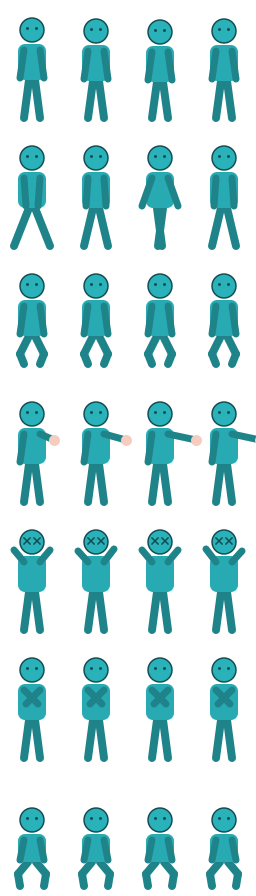
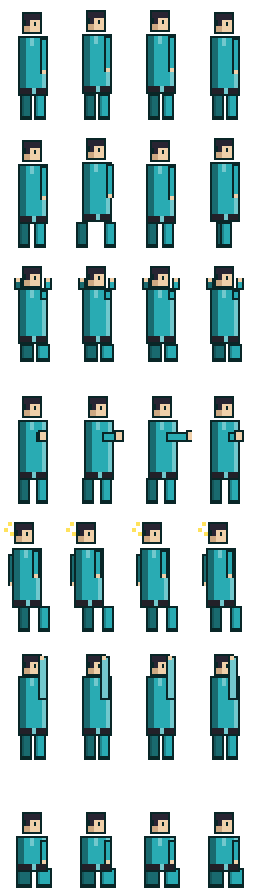
Task 129: スプライトをレトロ・ドット絵調に全面刷新（全 20 体）
キャラの見た目が単色のっぺりブロブで味気なかったため、ヘッドレス AWT の
新ジェネレータ（ハードエッジ・2px グリッド・太い輪郭・フラット陰影）で
レトロ・ドット絵調の格闘家（顔/髪/目/道着/帯/関節のある四肢）に刷新。
各状態で別ポーズ＋4 コマでモーション差（idle 呼吸 / walk 脚腕交互 /
attack 溜め→伸ばし→戻し / hitstun のけぞり＋火花 / guard 前腕立て /
crouch 低姿勢）を付け、全 20 体を各 JSON color で再生成。

- レイアウト不変（256×896・64×128・4 列 × 7 行＝idle/walk/jump/attack/
  hitstun/guard/crouch）＝sprite.stateRows / frameWidth / frameHeight も
  不変。JSON・コードは一切変更しない純アセット差し替え（後方互換・
  リプレイ/スクショレシピ不変・右向き 1 枚を engine の flip でミラー）。
- README ギャラリーの対戦画面を新スプライトの撮影に差し替え＋進捗表に
  Task 129 を追加。CLAUDE.md にフェーズと新ジェネレータの設計知見を反映。

https://claude.ai/code/session_013qTraoUF6gkNsUuRDs4kRT

diff --git a/CLAUDE.md b/CLAUDE.md
@@ -11,7 +11,7 @@
 
 **現在のフェーズ**：設計書タスク 1〜34 を完了（MVP ＋ コマンド技/必殺技/簡易 AI ＋ 2 体目検証 ＋ ドキュメント整備 ＋ 複数技 JSON 化 ＋ しゃがみ ＋ 複数ラウンド制 ＋ ガード ＋ しゃがみ攻撃 ＋ しゃがみ移動 ＋ しゃがみガード ＋ 下段判定 ＋ 空中攻撃 ＋ ガード高さ属性 ＋ スプライト描画）。さらに追加機能として **Task 35 投げ技（ガード不能の近接掴み）**・**Task 36 投げ抜け（throw tech）**・**Task 37 AI 読み合い反応（攻撃にガード／ガード偏重を投げで崩す）**・**Task 38 ヒットスパーク（命中時の火花演出）**・**Task 39 コンボカウンター（連続ヒット数の表示）**・**Task 40 第2ステージ（stage002・JSON のみで背景差し替え検証）**・**Task 41 3 体目キャラ（fighter003 Tetsu・JSON のみでキャラ追加検証）**・**Task 42 ラウンド開始イントロ（"ROUND N"/"FIGHT!" 演出＋開始前入力ロック）**・**Task 43 ガードゲージ／ガードクラッシュ（連続ガードでゲージ枯渇→ガード不能の隙）**・**Task 44 必殺技ゲージ／EX 必殺技（ゲージ満タンで強化版の飛び道具）**・**Task 45 チェーンコンボ（通常技キャンセル・弱→中→強で連続ヒット）**・**Task 46 コンボダメージ補正（連続ヒットが伸びるほど後続の与ダメージが減衰）**・**Task 47 特殊キャンセル（通常技を必殺技でキャンセルしてコンボを繋ぐ）**・**Task 48 4 体目キャラ（fighter004 Rai・高速ラッシュ型・JSON のみで追加）**・**Task 49 ダッシュ（二度押しで前ステップ／バックステップ）**・**Task 50 AI のダッシュ接近（遠距離は歩きでなくダッシュで素早く間合いを詰める）**・**Task 51 AI の投げ抜け反応（掴まれる瞬間に投げ抜けでノーダメージ＝打撃/ガード/投げの三すくみ完成）**・**Task 52 5 体目キャラ（fighter005 Sora・遠距離 zoner 型・JSON のみで追加）**・**Task 53 打撃必殺技／無敵リバーサル（昇龍拳タイプの無敵対空・`invincibleFrames` を JSON データ化）**・**Task 54 EX 打撃必殺技（メーター満タンで打撃必殺技を消費強化・ダメージ 1.6 倍＋金色 strike/`[EX]` 演出）**・**Task 55 AI の無敵対空（飛び込みを無敵リバーサルで迎撃・AI が初めて必殺技を使う・データ駆動）**・**Task 56 AI 難易度（EASY/NORMAL/HARD・実装済みの反応群を段階解放・既定 HARD で従来挙動）**・**Task 57 AI のジャンプ攻撃（飛び込み・前方ジャンプから空中攻撃を重ねる・HARD のみ・無敵対空と対の攻防）**・**Task 58 6 体目キャラ（fighter006 Iwao・飛び道具を持たない純グラップラー型・最高 HP1200/最大投げ dmg175＋無敵リバーサル・JSON のみで追加）**・**Task 59 空中ガード（滞空中の後退方向保持で飛び道具・中段/上段を chip ガード・立ち扱い）**・**Task 60 ダウン（knockdown・`Move.knockdown=true` の技を非ガードで食らうと転倒・`KNOCKDOWN_FRAMES` 行動不能＋ダウン中無敵＝OTG なし・データ駆動）**・**Task 61 7 体目キャラ（fighter007 Kaede・飛び道具＋ knockdown heavy・無敵リバーサルなしの footsies 型・技に `knockdown:true` を足すだけでダウン技が増える実例・JSON のみで追加）**・**Task 62 2P パレットスワップ（ミラーマッチ＝同キャラ対戦のときだけ P2 を乗算ティントで色変えして識別・別キャラ対戦は不変・純描画演出）**・**Task 63 AI の下段読みしゃがみガード（相手の打撃が下段なら立ちでなくしゃがみガードで対応・HARD のみ・NORMAL は下段に弱いまま＝難易度差）**・**Task 64 AI の飛び道具牽制（zoner・飛び道具を持つキャラの AI が遠距離で弾を撃って牽制・HARD のみ・飛び道具だけは弾生成に Core 連携が要る唯一の必殺技）**・**Task 65 ダッシュ攻撃（ダッシュ中の攻撃で出る突進打撃・JSON 任意 `dashAttack` でデータ化・突進初速 velocityX を既存減衰経路で前方スライド・持たないキャラは従来どおり通常技へキャンセル）**・**Task 66 受け身（ukemi・ダウン直後の受付窓に行動入力でクイック起き上がり・ダウン短縮＝起き攻めへの対抗択・無敵も早く切れるトレードオフ・グローバル機構/JSON 不要）**・**Task 67 8 体目キャラ（fighter008 Ren・ダッシュ起き攻め rushdown 型・`dashAttack` に `knockdown:true` を載せた `dash_blitz` でダッシュ突進ダウン＝Task 65＋60 をデータだけで複合・JSON のみで追加）**・**Task 68 二段ジャンプ（air jump・Character 任意 `airJumps`＝空中での追加ジャンプ回数でデータ化・接地で回復・持たないキャラは従来どおり地上ジャンプのみ）**・**Task 69 空中ダッシュ（air dash・Character 任意 `airDashes`＝滞空中の方向二度押しで水平バーストダッシュ・地上ダッシュの二度押しを滞空でも許可・重力継続で弧を描く・接地で回復・持たないキャラは従来どおり空中ダッシュなし）**・**Task 70 空中投げ（air throw・Character 任意 `airThrowMove`＝滞空中の相手専用のガード不能掴み・投げは掴む側と掴まれる側の接地状態が一致したときのみ成立＝地上投げはジャンプで空中投げは着地で回避可・地上投げの applyThrow/紫描画/ラベルを流用・持たないキャラは従来どおり空中投げなし）**・**Task 71 カウンターヒット（相手の攻撃 startup を潰すとダメージ増＋のけぞり延長・グローバル）**・**Task 74 多段ヒット技（`Move.hits`/`hitGap`＝active 中に複数回ヒット）**・**Task 75 AI 受け身（HARD の AI がダウン直後にクイック起き上がり）**・**Task 78 実行時 AI 難易度切替（F3 で EASY/NORMAL/HARD・リプレイ中は無効）**・**Task 79 めまい（dizzy・`Character.stunThreshold`＝スタン蓄積でフルコンボ確定の無防備硬直・被弾無敵ではない）**・**Task 80 スーパーアーマー（`Move.armorHits`＝startup 中にのけぞらず被弾を吸収）**・**Task 81 ジャストガード（ヒット直前の反応ガードで chip なし完全防御＋メーター獲得）**・**Task 82 削り KO 禁止（chip では HP を 1 未満にしない・`GameConstants.CHIP_DAMAGE_CAN_KO`）**・**Task 83 浮かせ（launch・`Move.launch`＝打ち上げて空中やられ＝ジャグル起点）**・**Task 85 OTG（`Move.otg`＝ダウン中の相手にも当たる追い打ち）**・**Task 86 ヒットストップ（命中/ガードで両者を数フレーム凍結する衝撃演出・決定的）**・**Task 88 受け身不能ダウン（`Move.hardKnockdown`＝受け身できないダウン＝起き攻め確定）**・**Task 90 トレーニングモード（F4・HP 無限ダミーでコンボ練習・撮影は `-x training=true`）**・**Task 92 スタンゲージ HUD（めまい蓄積の可視化・`stunThreshold>0` のキャラのみ）**・**Task 94 投げ抜け不能投げ（`Move.noTech`＝command throw＝投げ抜けできない確定の掴み）**・**Task 96 入力表示 HUD（P1 の直近入力をテンキー表記で画面左に表示・トレ/観戦用）**・**Task 97 AI 起き上がりリバーサル（HARD の AI がダウンからの起き上がりに無敵技で切り返す）**・**新キャラ Task 72/76/84/87/91/95/99（fighter009 Hayato＝charge zoner / fighter010 Yuki＝多段 rushdown / fighter011 Goro＝アーマー bruiser / fighter012 Daichi＝juggle / fighter013 Mizu＝高低 mixup / fighter014 Gan＝コマンド投げ grappler / fighter015 Aki＝万能 shoto＝計 15 体）**・**新ステージ Task 73/77/89/93/98（stage003 Crimson Dusk〜stage007 Volcanic Rift＝計 7 ステージ）**・**Task 100 ドキュメント総整備** と ダメージ数値ポップアップ を実装済み。1対1対戦・移動/ジャンプ/しゃがみ（攻撃/移動/ガード）・空中攻撃（飛び込み）・通常攻撃/必殺技（波動拳=飛び道具）・投げ（ガード不能・JSON `throwMove` でデータ化・ジャンプで回避可）・投げ抜け（掴まれる瞬間に投げ返しでノーダメージ・打撃=ガード/投げ=投げ抜け/空中=ジャンプの択が成立）・読み合い反応する簡易 AI（決定的）・ガード高さ属性（`guardHeight` を JSON データ化：overhead=立ちガード必須/mid=両ガード可/low=しゃがみガード必須）・HP ゲージ・攻撃/食らい/押し合い判定・立ち＆しゃがみガード（chip ダメージ・上段/中段/下段の読み合い）・複数ラウンド制（ベスト・オブ 3）・スプライト描画・外部 JSON 駆動（キャラ/ステージ）・デバッグ当たり判定表示・簡易 AI までが動作。さらに 15 体のキャラ・7 ステージ・カウンターヒット/多段/めまい/アーマー/ジャストガード/浮かせ/OTG/ヒットストップ/受け身不能/コマンド投げ等の戦闘機構、トレーニングモード/入力表示/スタンゲージ等の UI、実行時 AI 難易度切替・AI 受け身/起き上がりリバーサルまで拡張済み（Task 71〜100）。
 
-**さらに Task 101〜128** で次を実装済み：**Task 101 壁バウンド（`Move.wallBounce`・画面端ジャグル延長）**・**Task 102 床バウンド（`Move.groundBounce`・着地で跳ね返りジャグル延長）**・**Task 104 回復可能ダメージ（レッドライフ・ガード chip を赤ゲージ化し無被弾で白 HP へ回復・非ガード被弾で焼き切れ）**・**Task 105 パリィ（前方タップの反応で打撃を完全に弾き反撃確定＝ジャストガードの前方版）**・**Task 106 AI パリィ反応（HARD が相手打撃の active 直前を読んでパリィ・壁にならないクールダウン制）**・**Task 108 スーパー必殺技（236236＋攻撃＋メーター満タン消費で発動・スーパーフラッシュ凍結・`Move.superMove`/`Command.SUPER`）**・**Task 110 AI スーパー（HARD が満タンで発動）**・**Task 111 プッシュブロック（ガード時に攻撃側も押し戻して間合いを作る）**・**Task 112 コマンド表 HUD（F5・`-x movelist=true`）**・**Task 115 KO スローモーション演出**・**Task 116 スタート画面（タイトルでモード選択：対戦/トレーニング＝P2 が何もしない・通常起動はタイトルから・撮影/リプレイは BATTLE 直行で後方互換・`-x startscreen=`）**・**Task 117 キャラクター選択画面（対戦選択で遷移・全キャラから P1/P2 を選択・`ROSTER_IDS`）**・**Task 121 コンボ累計ダメージ HUD**・**Task 122 ディレイ起き上がり（ダウン中の下押しで遅起き）**・**Task 123 ラン（`Character.canRun`・前ダッシュ後の前方保持で走り続ける）**・**Task 124 AI 端攻め（HARD が画面端の相手へ proactive な投げ択）**・**Task 126 空中受け身（air recovery・空中やられ中に最小窓後の行動入力で受け身して脱出・被弾無敵ではない＝受け身狩り可・地上 ukemi/ディレイ起き上がりと対の空中版・グローバル）**・**Task 127 パーフェクト KO 演出（PERFECT・勝者がノーダメージ＝HP 満タンでラウンドを取ると金色 "PERFECT!" を結果バナーに重ねる・KO/タイムアップ両対応・純演出）**・**Task 128 ステージ選択画面（対戦でキャラ確定後に全 10 ステージから対戦の背景を選択＝`Screen.STAGE_SELECT`・`STAGE_IDS`・確定で `startBattle(p1,p2,stageId)` が `setStage`・撮影は `-x startscreen=stageselect`・純 UI）**・**新キャラ Task 103/109/114/118/120（fighter016 Enji＝bounce-juggle / fighter017 Shion＝super shoto / fighter018 Kuga＝armor bruiser / fighter019 Mei＝高速 rushdown / fighter020 Genji＝万能 shoto＝計 20 体）**・**新ステージ Task 107/113/119（stage008 Abyssal Cathedral〜stage010 Starlit Shrine＝計 10 ステージ）**。これで**ロスター 20 体・10 ステージ**、スーパー必殺技・タイトル/キャラ/ステージ選択画面（`./gradlew run` で タイトル→モード選択→(対戦は)キャラ選択→ステージ選択→バトル）まで揃った。次フェーズ候補は Tools（CharacterViewer / HitboxEditor）・サウンド（SE/BGM）・リプレイ保存等。
+**さらに Task 101〜128** で次を実装済み：**Task 101 壁バウンド（`Move.wallBounce`・画面端ジャグル延長）**・**Task 102 床バウンド（`Move.groundBounce`・着地で跳ね返りジャグル延長）**・**Task 104 回復可能ダメージ（レッドライフ・ガード chip を赤ゲージ化し無被弾で白 HP へ回復・非ガード被弾で焼き切れ）**・**Task 105 パリィ（前方タップの反応で打撃を完全に弾き反撃確定＝ジャストガードの前方版）**・**Task 106 AI パリィ反応（HARD が相手打撃の active 直前を読んでパリィ・壁にならないクールダウン制）**・**Task 108 スーパー必殺技（236236＋攻撃＋メーター満タン消費で発動・スーパーフラッシュ凍結・`Move.superMove`/`Command.SUPER`）**・**Task 110 AI スーパー（HARD が満タンで発動）**・**Task 111 プッシュブロック（ガード時に攻撃側も押し戻して間合いを作る）**・**Task 112 コマンド表 HUD（F5・`-x movelist=true`）**・**Task 115 KO スローモーション演出**・**Task 116 スタート画面（タイトルでモード選択：対戦/トレーニング＝P2 が何もしない・通常起動はタイトルから・撮影/リプレイは BATTLE 直行で後方互換・`-x startscreen=`）**・**Task 117 キャラクター選択画面（対戦選択で遷移・全キャラから P1/P2 を選択・`ROSTER_IDS`）**・**Task 121 コンボ累計ダメージ HUD**・**Task 122 ディレイ起き上がり（ダウン中の下押しで遅起き）**・**Task 123 ラン（`Character.canRun`・前ダッシュ後の前方保持で走り続ける）**・**Task 124 AI 端攻め（HARD が画面端の相手へ proactive な投げ択）**・**Task 126 空中受け身（air recovery・空中やられ中に最小窓後の行動入力で受け身して脱出・被弾無敵ではない＝受け身狩り可・地上 ukemi/ディレイ起き上がりと対の空中版・グローバル）**・**Task 127 パーフェクト KO 演出（PERFECT・勝者がノーダメージ＝HP 満タンでラウンドを取ると金色 "PERFECT!" を結果バナーに重ねる・KO/タイムアップ両対応・純演出）**・**Task 128 ステージ選択画面（対戦でキャラ確定後に全 10 ステージから対戦の背景を選択＝`Screen.STAGE_SELECT`・`STAGE_IDS`・確定で `startBattle(p1,p2,stageId)` が `setStage`・撮影は `-x startscreen=stageselect`・純 UI）**・**新キャラ Task 103/109/114/118/120（fighter016 Enji＝bounce-juggle / fighter017 Shion＝super shoto / fighter018 Kuga＝armor bruiser / fighter019 Mei＝高速 rushdown / fighter020 Genji＝万能 shoto＝計 20 体）**・**新ステージ Task 107/113/119（stage008 Abyssal Cathedral〜stage010 Starlit Shrine＝計 10 ステージ）**。これで**ロスター 20 体・10 ステージ**、スーパー必殺技・タイトル/キャラ/ステージ選択画面（`./gradlew run` で タイトル→モード選択→(対戦は)キャラ選択→ステージ選択→バトル）まで揃った。**さらに Task 129 でスプライトをレトロ・ドット絵調に全面刷新（顔/髪/道着/帯/関節のある人型＋状態別ポーズ＋4 コマのモーション差・全 20 体を各 JSON `color` で再生成・レイアウト不変＝JSON/コード変更なしの純アセット差し替え）**。次フェーズ候補は Tools（CharacterViewer / HitboxEditor）・サウンド（SE/BGM）・リプレイ保存等。
 
 ---
 
@@ -204,7 +204,7 @@ Codex 向けの永続的な指示は **リポジトリ直下の [AGENTS.md](AGEN
 - **`TextureRegion.split` で得た領域を `flip` で反転すると共有インスタンスが変わる** — 症状：向きで `region.flip(true,false)` すると、キャッシュした領域の flip 状態が次フレーム/別ファイターに持ち越され、ミラーマッチや左右混在で反転がちらつく。対処：描画直前に**目標 flip 状態へ揃える**（`if (region.isFlipX() != faceLeft) region.flip(true,false);`）。`batch.draw` は即座に頂点をコピーするので、同一パス内で同じ領域を別 flip で複数回描いても順次設定すれば正しい。シートは**右向きのみ**用意し左向きは反転で作る。
 - **2P パレットスワップ（ミラーマッチ識別）は「`batch.setColor` 乗算ティント＋ミラー時のみ適用」で足り、既存スクショに回帰しない**（Task 62 確立）— 同キャラ対戦（`p1.getDef().getId().equals(p2.getDef().getId())`）のときだけ P2 の本体を乗算色（`MIRROR_P2_TINT`）でティントして左右を識別する。スプライトは `batch.setColor(tint)` → `batch.draw` → `setColor(WHITE)` で乗算（プレースホルダの単色キャラに乗算すると色相がずれて十分識別可能。例：青 Aoi × `(1,0.45,0.55)`＝紫）、矩形フォールバックは `characterColor` を `mul(tint)` する。**被弾フラッシュ（hitstun の赤み）と合成するときは作業用 `Color` に `set(WHITE).mul(tint).mul(flash)` と順に乗算**（`hitstunFlash` は新規 Color を返し引数を破壊しないので alias 安全）。**ミラー限定にするのがコツ**：別キャラ対戦に常時適用すると既存の「青 Aoi vs オレンジ Akane」等の見え方が変わり、全スクショ/レシピに回帰が出る。ミラー時のみなら通常マッチは完全に不変（撮影は `-x p1char=fighter001 -x p2char=fighter001` でミラーを撮り、`-x p1char=fighter001 -x p2char=fighter002` で非ミラーが不変なことを対比）。純描画演出で戦闘結果に影響せず乱数なし＝リプレイ不変。`drawFighterSprite`/`drawFighterOverlay` に `boolean paletteSwap` 引数を足し `renderScene` で P2 のみ `mirror` を渡す配線。
 - **`Shared/Types` から `GameRuntime/Rendering` の enum（`AnimationState`）へ依存させない** — スプライトの状態→行マップは `AnimationState` で持ちたくなるが、それだと Shared が Rendering に依存し層が逆転する。対処：`SpriteStateRow.state` は**小文字ラベルの String**で保持し、描画側が `AnimationState.label()` と照合する（`guardHeight` を String で持ち `GuardHeight` enum 解釈を描画/ロジック側に置いたのと同じ構図）。未マップ状態は行 0（idle）へフォールバック。
-- **プレースホルダ PNG はヘッドレス AWT（`BufferedImage`+`ImageIO`）で生成できる（PIL 不要）** — 本環境に Pillow は無いが JDK は常にある。対処：`java.awt`（`-Djava.awt.headless=true`）で 64×128 セルのスプライトシートを描いて `ImageIO.write(...,"png",...)` する使い捨てジェネレータを `/tmp` に置いて実行し、**PNG だけ**を `Assets/Characters/` に同梱する（ジェネレータはリポジトリに残さない＝フォルダ構成を増やさない）。キャラ色を引数で渡せば色違いの 2 体分を生成できる。撮影後は Read で目視。**シートは 256×896（64×128 セル × 4 列 × 7 行＝idle/walk/jump/attack/hitstun/guard/crouch）に固定**し、JSON の `sprite.stateRows[]` はこの行レイアウトを参照する（Task 41 で fighter003=紫、Task 48 で fighter004=黄緑、Task 52 で fighter005=青緑/teal=`40 170 178`、Task 58 で fighter006=crimson=`199 51 61`、Task 61 で fighter007=magenta=`217 89 158`、Task 67 で fighter008=green=`52 168 83`、Task 72 で fighter009=gold=`230 168 40`、Task 76 で fighter010=silver=`206 210 220`、Task 84 で fighter011=olive=`120 138 56`、Task 87 で fighter012=brown=`158 112 66`、Task 91 で fighter013=cyan=`58 200 232`、Task 95 で fighter014=navy=`52 66 138`、Task 99 で fighter015=lime=`165 214 56` を生成。ジェネレータに `<out> <r> <g> <b>` を渡して色違いを出力＝既存色と重複しない色を選ぶ。**ジェネレータ `/tmp/SpriteGen.java` はセッションを跨いで残る場合があるので、新キャラ前に存在を確認して再利用すると既存 7 体とスタイルが厳密一致する**（無ければ本ファイルの記述から再作成可。256×896・7 行＝idle/walk/jump/attack/hitstun/guard/crouch・`bone`/`capsule`/`circle`/`tuft`/`sparkMark` で構成））。新キャラを足すたびに JSON のステータス/技で**アーキタイプを差別化**するとリスキンに留まらない（Task 52 Sora は hitboxWidth 104/124/144 の長射程通常＋高速飛び道具＋低 HP で zoner 型＝既存の Aoi/Akane/Tetsu/Rai と別の間合い）。新キャラ追加は「JSON（ステータス/技/sprite）＋同レイアウト PNG」の 2 ファイルで完結し、**追加したキャラはコード変更なしでチェーンコンボ・特殊キャンセル・コンボ補正・必殺技ゲージ・ダウン（Task 60）等の既存戦闘機構をそのまま利用できる**（Task 48 で fighter004 が低リカバリ通常で jab→elbow→uppercut の 3 HITS を出すスクショで実証。Task 61 で fighter007 の強攻撃 `roundhouse` に `knockdown:true` を足すだけで新キャラがダウンを奪えることをスクショで実証＝Task 60 がデータ駆動である裏付け）＝データ駆動の到達点。新しい戦闘機構を「技 JSON のフラグ」で設計すると（`guardHeight`/`invincibleFrames`/`knockdown`）、後から足す新キャラも無改修でその機構を享受できる。
+- **プレースホルダ PNG はヘッドレス AWT（`BufferedImage`+`ImageIO`）で生成できる（PIL 不要）** — 本環境に Pillow は無いが JDK は常にある。対処：`java.awt`（`-Djava.awt.headless=true`）で 64×128 セルのスプライトシートを描いて `ImageIO.write(...,"png",...)` する使い捨てジェネレータを `/tmp` に置いて実行し、**PNG だけ**を `Assets/Characters/` に同梱する（ジェネレータはリポジトリに残さない＝フォルダ構成を増やさない）。キャラ色を引数で渡せば色違いの 2 体分を生成できる。撮影後は Read で目視。**シートは 256×896（64×128 セル × 4 列 × 7 行＝idle/walk/jump/attack/hitstun/guard/crouch）に固定**し、JSON の `sprite.stateRows[]` はこの行レイアウトを参照する（Task 41 で fighter003=紫、Task 48 で fighter004=黄緑、Task 52 で fighter005=青緑/teal=`40 170 178`、Task 58 で fighter006=crimson=`199 51 61`、Task 61 で fighter007=magenta=`217 89 158`、Task 67 で fighter008=green=`52 168 83`、Task 72 で fighter009=gold=`230 168 40`、Task 76 で fighter010=silver=`206 210 220`、Task 84 で fighter011=olive=`120 138 56`、Task 87 で fighter012=brown=`158 112 66`、Task 91 で fighter013=cyan=`58 200 232`、Task 95 で fighter014=navy=`52 66 138`、Task 99 で fighter015=lime=`165 214 56` を生成。ジェネレータに `<out> <r> <g> <b>` を渡して色違いを出力＝既存色と重複しない色を選ぶ。**【重要・Task 129 で全 20 体を刷新】スプライトはレトロ・ドット絵調の新ジェネレータ `/tmp/SpriteGen2.java` で生成する（旧 `SpriteGen.java`＝`bone`/`capsule`/`circle` の単色ブロブは使わない＝混在するとスタイルが割れる）**。新キャラ・差し替え時は `SpriteGen2.java` を再利用し（無ければ下記の設計から再作成）、`java -Djava.awt.headless=true SpriteGen2 <out.png> <r0-255> <g0-255> <b0-255>` で出力する。レイアウトは旧と同一（256×896・64×128 セル・4 列 × 7 行＝idle/walk/jump/attack/hitstun/guard/crouch＝JSON 不変・純アセット差し替え）。設計の要点（後述「レトロ・ドット絵スプライト」節も参照）：`RenderingHints.VALUE_ANTIALIAS_OFF`（ハードエッジ）＋ `P=2` の論理 px グリッドで `fillRect` スナップ＝チャンキーなドット絵、`block()`＝太い輪郭（1 論理 px）＋内側塗り、右向きの格闘家（髪/顔/目/道着/帯/関節のある四肢＝軸並行ブロックの腕脚）、パレットは基準色から `giShade=×0.62`/`giLight=lerp(白,0.34)`/`outline=暗い色味残し`＋固定の肌/髪、各状態で別ポーズ＋4 列でモーション差（idle=呼吸、walk=脚と腕を交互、attack=溜め→伸ばし→戻し、hitstun=のけぞり＋火花、guard=前腕を立てる、crouch=低姿勢）。新キャラを足すたびに JSON のステータス/技で**アーキタイプを差別化**するとリスキンに留まらない（Task 52 Sora は hitboxWidth 104/124/144 の長射程通常＋高速飛び道具＋低 HP で zoner 型＝既存の Aoi/Akane/Tetsu/Rai と別の間合い）。新キャラ追加は「JSON（ステータス/技/sprite）＋同レイアウト PNG」の 2 ファイルで完結し、**追加したキャラはコード変更なしでチェーンコンボ・特殊キャンセル・コンボ補正・必殺技ゲージ・ダウン（Task 60）等の既存戦闘機構をそのまま利用できる**（Task 48 で fighter004 が低リカバリ通常で jab→elbow→uppercut の 3 HITS を出すスクショで実証。Task 61 で fighter007 の強攻撃 `roundhouse` に `knockdown:true` を足すだけで新キャラがダウンを奪えることをスクショで実証＝Task 60 がデータ駆動である裏付け）＝データ駆動の到達点。新しい戦闘機構を「技 JSON のフラグ」で設計すると（`guardHeight`/`invincibleFrames`/`knockdown`）、後から足す新キャラも無改修でその機構を享受できる。
 - **撮影用キャラ/ステージのオーバーライドは `ScreenshotController` に `xxxId(...)` getter を足し 3 点セットで配線する**（Task 40 stage / Task 41 char で確立）— 新しい「読み込むリソースの撮り分け」を足すときは、(1) `ScreenshotController` に `isEnabled()` ガード付きの getter（`stageId(fallback)` / `charId(player, fallback)`：撮影モードかつプロパティ指定時のみ差し替え・通常起動は fallback）、(2) `PhantomNexusGame.create()` のロードを getter 経由に（**`screenshot` を当該ロードより前に初期化**＝NPE 回避。Task 40 の並べ替え）、(3) `Infra/Build/build.gradle` の run タスク転送リストへ `phantom.screenshot.<key>` を追記——の 3 点をワンセットにする。プレイヤー別（`p1char`/`p2char`）はプロパティ名を `player == 2 ? ".p2char" : ".p1char"` で分岐（既存 `heldActions`/`spawnX` と同じ判定パターンに統一）。`aiEnabled`/`spawnX` と同じ「撮影時のみ効く・後方互換」パターン。
 - **被弾演出で表示する「与ダメージ量」は式を複製せず適用前後の HP 差で出す**（ダメージ数値ポップアップで確立）— 症状：ポップアップに表示する数値を `move.getDamage()` や chip 式 `max(1, damage/10)` から再計算すると、ガード chip・残 HP 未満の 0 クランプ・将来の補正で実減少と食い違う。対処：`int before = defender.getCurrentHp(); applyHit/applyGuard(...); int dealt = before - defender.getCurrentHp();` の差分を表示量にする（`Fighter` 内の式に依存せず常に実減少と一致）。新しい被弾フィードバック（ヒットスパーク量・コンボ補正後ダメージ等）も同じ「HP 差」方式で出すこと。
 - **純粋な視覚演出の実行時状態は `Projectile` と同じパターン（Battle POJO ＋ Core 所有リスト ＋ Renderer 描画）で足す**（ダメージ数値ポップアップで確立）— `Texture` 等の GPU リソースを持たない一過性エフェクト（数字・スパーク等）は `GameRuntime/Battle` に状態 POJO（量・原点・経過/寿命）を置き、`PhantomNexusGame` が `List` を保持して毎フレーム `update()`＋期限切れ除去・`resetFighters()` でクリアし、`GameRenderer` が読み取って描く。エフェクトを「決着/ラウンド間でも動かしたい」なら `update()` 冒頭の `round.isFinished()` 凍結ガードより**前**で aging する（KO を決めた一撃の数字が止まらず最後まで浮かぶ）。
@@ -255,6 +255,7 @@ Codex 向けの永続的な指示は **リポジトリ直下の [AGENTS.md](AGEN
 - **コマンド投げ等の「相互に成立し得る対称行動」を 1 変数対比で撮るときは、解決順（`resolveHit(fighter1,fighter2)` が先）と発生フレームに注意する**（Task 94/95 で踏んだ）— 両者同時に投げボタンを押すと、**速い / 先に active になった方の投げが先に解決**し、techable 投げなら投げ抜けが両者に成立してしまう（noTech の検証にならない）。対処：P1（fighter1＝先に解決）の投げが**先に active** になり、P2 の投げ抜け窓は**armingだけ**（P2 の grab は後・または届かない）になるよう、P2 の throw 入力を P1 の active フレーム直前に置く（例 `script=1-1:p1.throw;4-6:p2.throw`＝P2 は tech 窓を armするが grab は後）。`atomic_buster`(startup5) と `power_bomb`(startup4) の 1F 差でタイミングがずれた＝**技の startup を実測してから P2 入力フレームを決める**。
 - **「戦闘開始前提の画面」（タイトル/キャラ選択）を足すときは、撮影モード・リプレイで BATTLE 直行スキップして後方互換を守る**（Task 116/117 確立・Task 42 のイントロスキップを画面状態機械へ一般化）— `Screen` enum（TITLE/CHARACTER_SELECT/BATTLE）を導入し `render()` 冒頭で分岐するが、**既存スクショレシピ（`-f N`・`script=`）とリプレイは frame1 から戦闘開始の前提**。`create()` で `replay.isRecording()||isReplaying() → BATTLE`、`screenshot.isEnabled() → startScreen("battle")`（既定 battle・`-x startscreen=title|charselect` で撮影時のみ各画面）、else（通常起動）→ TITLE と初期化すれば、通常起動だけタイトルから・撮影/リプレイは不変。`screen` フィールド既定も BATTLE。**メニュー操作は `Gdx.input.isKeyJustPressed` 直参照**（純 UI・乱数なし・実プレイのキーボードで動く）にするのが自然だが、その代償として**撮影ハーネスの forced 入力（`setForcedHold`）では駆動できない**＝タイトル/キャラ選択のスクショは「既定状態のキャプチャ」になる（ナビゲーションは撮れない）。新キャラを足したら `PhantomNexusGame.ROSTER_IDS` への追記も忘れない（キャラ選択に出すため）。
 - **`update()` のような長いメソッドに新しいローカル変数を足すときは、同メソッド内の既存ローカル名と衝突しないか確認する**（Task 123 で踏んだ）— 症状：`int forwardDir = ...;` を `update()` の dash 分岐に足したら `variable forwardDir is already defined` でコンパイル不成立（`./gradlew build` 失敗）。原因：Java は**ネストブロックでローカル変数をシャドウできない**（フィールドと違い、enclosing ブロックの同名ローカルを内側ブロックで再宣言不可）。`update()` 冒頭のパリィ判定（Task 105）で既に `int forwardDir` が宣言済みだった。対処：別名（`runForwardDir` 等）にするか既存変数を再利用する。**self-review（fresh-context のサブエージェント）と push 前のビルドが検出**＝レビューゲートが機能した実例。`update()` は機構を足すたび肥大化するので、新ローカルは固有名にする。
+- **レトロ・ドット絵スプライト：見た目の刷新は「配線（フレーム送り）を流用し、絵＝PNG だけを差し替える純アセット作業」で完結する**（Task 129 確立）— 症状：キャラが単色のっぺりブロブ（旧 `SpriteGen.java` の `bone`/`capsule`/`circle`）で「味気ない」。原因：エンジンは既にコマ送りアニメ（`SpriteLibrary.region(state,frameIndex)`＝行=状態/列=フレーム・`FighterAnimator` が `ticksInState` で frame 前進＋待機の三角波呼吸）に対応しているのに、**絵そのものが低密度で 4 列がほぼ同一**だった。対処：レトロ・ドット絵調の新ジェネレータ `/tmp/SpriteGen2.java`（ハードエッジ＝`VALUE_ANTIALIAS_OFF`・`P=2` 論理 px グリッドに `fillRect` スナップ・`block()`＝太い輪郭＋内側塗り・右向きの格闘家＝髪/顔/目/道着/帯/軸並行ブロックの四肢・パレットは基準色から `giShade ×0.62`/`giLight lerp(白0.34)`/暗い `outline`＋固定肌/髪・**各状態で別ポーズ＋4 列でモーション差**＝idle 呼吸/walk 脚腕交互/attack 溜め→伸ばし→戻し/hitstun のけぞり＋火花/guard 前腕立て/crouch 低姿勢）で**全 20 体を各 JSON `color`×255 で再生成**。**レイアウトは旧と同一（256×896・64×128・4 列 × 7 行＝idle/walk/jump/attack/hitstun/guard/crouch）＝`sprite.stateRows[]`/`frameWidth`/`frameHeight` 不変＝JSON もコードも一切触らない純アセット差し替え**（後方互換・リプレイ/スクショレシピ不変＝絵だけ変わる）。教訓 3 点：(1) **見た目改善は engine 配線が既にあるかをまず確認**（あれば PNG だけで激変・無ければ配線から）、(2) **絵の好みはユーザーのものなので 1 体だけ試作して `SendUserFile` で見せてから全展開**（20 体作り直しの手戻り回避・Task 129 は試作 OK 後に一括生成）、(3) **右向き 1 枚で用意し engine の `flip` で左向き＝ミラー対応**（既存の `region.flip` 配線がそのまま効く・撮影で P1 右/P2 左の反転を確認）。ジェネレータは `/tmp` 維持（リポジトリに残さない＝既存方針）。新キャラは `SpriteGen2` を再利用してスタイル厳密一致＋JSON のステータス/技でアーキタイプ差別化、が定石。
 <!-- 以降、kaizen-close でビルド系の罠を発見したら「症状 / 原因 / 対処」で追記する。 -->
 
 ---

diff --git a/README.md b/README.md
@@ -20,8 +20,8 @@
 
 | ステージ選択 | 対戦画面 |
 |---|---|
-| ![ステージ選択](docs/screenshots/128-stageselect.png) | ![対戦画面](docs/screenshots/67-fighter008-roster.png) |
-| 全 10 ステージから対戦の背景を選んでバトル開始 | HP / 必殺技ゲージ / 勝利ドット / ステージ名つきの対戦画面（スプライト描画） |
+| ![ステージ選択](docs/screenshots/128-stageselect.png) | ![対戦画面](docs/screenshots/129-pixel-sprites.png) |
+| 全 10 ステージから対戦の背景を選んでバトル開始 | レトロ・ドット絵調のキャラ・HP / 必殺技ゲージ / 勝利ドット・命中演出（攻撃／のけぞり） |
 
 | パーフェクト KO | |
 |---|---|
@@ -216,6 +216,7 @@ docs/          DataFormat.md / BattleSystem.md / screenshots
 | 126 | 空中受け身（air recovery・空中やられ中の行動入力で受け身して脱出・最小窓後のみ・受け身狩り可） | ✅ 完了 |
 | 127 | パーフェクト KO 演出（PERFECT・勝者がノーダメージでラウンドを取ると金色で "PERFECT!" 表示） | ✅ 完了 |
 | 128 | ステージ選択画面（対戦でキャラ確定後に全 10 ステージから対戦の背景を選択・タイトル→キャラ→ステージ→バトル） | ✅ 完了 |
+| 129 | スプライト刷新（レトロ・ドット絵調・顔/髪/道着/帯/関節のある人型＋状態別ポーズ＋4コマのモーション差・全 20 体を再生成・JSON/コード変更なしの純アセット差し替え） | ✅ 完了 |
 | ＋ | ダメージ数値ポップアップ（追加機能・被弾/ガード時に与ダメージを命中位置に表示） | ✅ 完了 |
 
 状態：⬜ 未着手 / 🟦 進行中 / ✅ 完了（「＋」は設計書外の任意追加機能）
